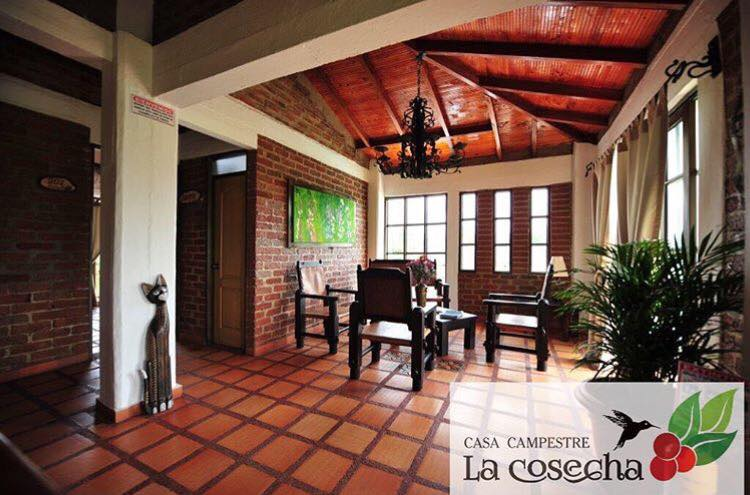
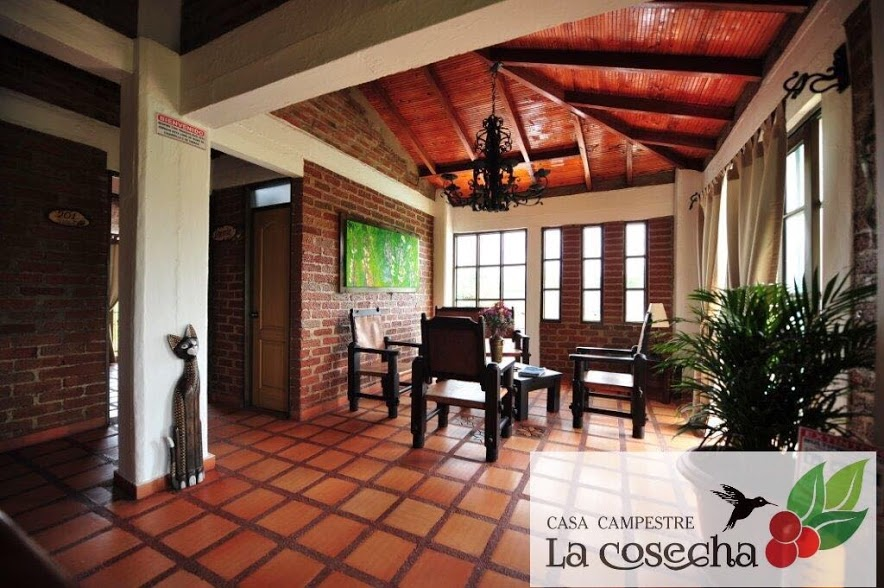
Se arreglo la galeria

diff --git a/CSS/component.css b/CSS/component.css
@@ -34,12 +34,12 @@
 }
 
 .photostack figure {
-	width: 320px;
+	width: 390px;
 	height: 360px;
 	position: relative;
 	display: inline-block;
 	background: #fff;
-	padding: 40px;
+	padding: 30px;
 	text-align: center;
 	margin: 5px;
 }
@@ -50,18 +50,13 @@
 	margin: 0;
 }
 
-.photostack figcaption h2 {
-	margin: 20px 0 0 0;
-	color: #a7a0a2;
-	font-size: 16px;
-}
-
 .photostack-img {
 	outline: none;
+	margin-right:20px;
 	text-align: center;
 	display: block;
-	width: 260px;
-	height: 260px;
+	width: 330px;
+	height: 300px;
 	background: #13E7C4;
 }
 
@@ -75,7 +70,7 @@
 	background: #fff;
 	font-family: "Give You Glory", cursive;
 	color: #a7a0a2;
-	padding: 50px 40px;
+	padding: 10px 10px;
 	text-align: left;
 	font-size: 22px;
 	line-height: 1.25;
@@ -189,7 +184,7 @@
 
 /* Button on photostack container */
 .js .photostack::after {
-	content: 'DAR CLIC EN ESTE CUADRO';
+	content: 'DAR CLIC';
 	font-weight: 400;
 	position: absolute;
 	border: 3px solid #fff;

diff --git a/index.php b/index.php
@@ -33,52 +33,27 @@
 			<section id="photostack-1" class="photostack photostack-start">
 				<div>
 					<figure>
-						<a href="#" class="photostack-img"><img src="CSS/IMG/campestre/1.jpg" width="260px" height="260px" alt="img01"/></a>
-						<figcaption>
-							<h2 class="photostack-title"></h2>
-						</figcaption>
+						<a href="y" class="photostack-img"><img src="CSS/IMG/campestre/1.jpg" width="330px" height="300px" alt="img01"/></a>
 					</figure>
 					<figure>
-						<a href="#" class="photostack-img"><img src="CSS/IMG/campestre/2.jpg" width="260px" height="260px" alt="img02"/></a>
-						<figcaption>
-							<h2 class="photostack-title"></h2>
-						</figcaption>
+						<a href="#" class="photostack-img"><img src="CSS/IMG/campestre/2.jpg" width="330px" height="300px" alt="img02"/></a>
 					</figure>
 					<figure>
-						<a href="#" class="photostack-img"><img src="CSS/IMG/campestre/3.jpg" width="260px" height="260px" alt="img03"/></a>
-						<figcaption>
-							<h2 class="photostack-title"></h2>
-						</figcaption>
+						<a href="#" class="photostack-img"><img src="CSS/IMG/campestre/3.jpg" width="330px" height="300px" alt="img03"/></a>
 					</figure>
 					<figure>
-						<a href="#" class="photostack-img"><img src="CSS/IMG/campestre/4.jpg" width="260px" height="260px" alt="img04"/></a>
-						<figcaption>
-							<h2 class="photostack-title"></h2>
-						</figcaption>
+						<a href="#" class="photostack-img"><img src="CSS/IMG/campestre/4.jpg" width="330px" height="300px" alt="img04"/></a>
 					</figure>
 					<figure>
-						<a href="#" class="photostack-img"><img src="CSS/IMG/campestre/5.jpg" width="260px" height="260px" alt="img05"/></a>
-						<figcaption>
-							<h2 class="photostack-title"></h2>
-						</figcaption>
+						<a href="#" class="photostack-img"><img src="CSS/IMG/campestre/5.jpg" width="330px" height="300px" alt="img05"/></a>
 					</figure>
 					<figure>
-						<a href="#" class="photostack-img"><img src="CSS/IMG/campestre/6.jpg" width="260px" height="260px" alt="img06"/></a>
-						<figcaption>
-							<h2 class="photostack-title"></h2>
-						</figcaption>
+						<a href="#" class="photostack-img"><img src="CSS/IMG/campestre/6.jpg" width="330px" height="300px" alt="img06"/></a>
 					</figure>
 					<figure data-dummy>
-						<a href="#" class="photostack-img"><img src="CSS/IMG/campestre/7.jpg" width="260px" height="260px" alt="img07"/></a>
-						<figcaption>
-							<h2 class="photostack-title"></h2>
-						</figcaption>
-					</figure>
+						<a href="#" class="photostack-img"><img src="CSS/IMG/campestre/7.jpg" width="330px" height="300px" alt="img07"/></a>
 					<figure data-dummy>
-						<a href="#" class="photostack-img"><img src="CSS/IMG/campestre/8.jpg" width="260px" height="260px" alt="img08"/></a>
-						<figcaption>
-							<h2 class="photostack-title"></h2>
-						</figcaption>
+						<a href="#" class="photostack-img"><img src="CSS/IMG/campestre/8.jpg" width="330px" height="300px" alt="img08"/></a>
 					</figure>
 					<!-- <figure data-dummy>
 						<a href="#" class="photostack-img"><img src="img/9.jpg" alt="img09"/></a>
